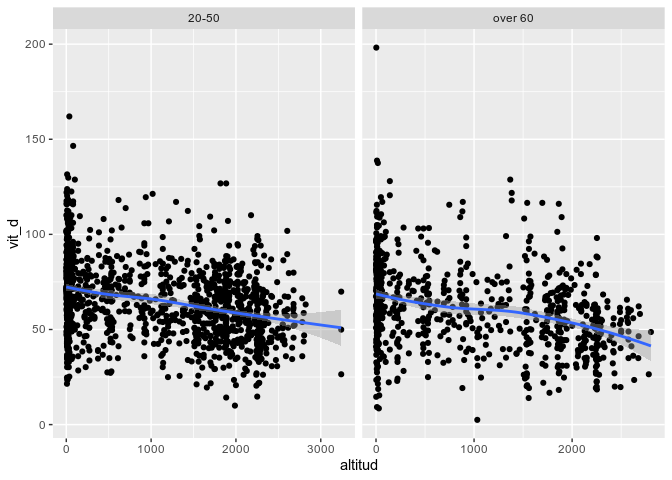
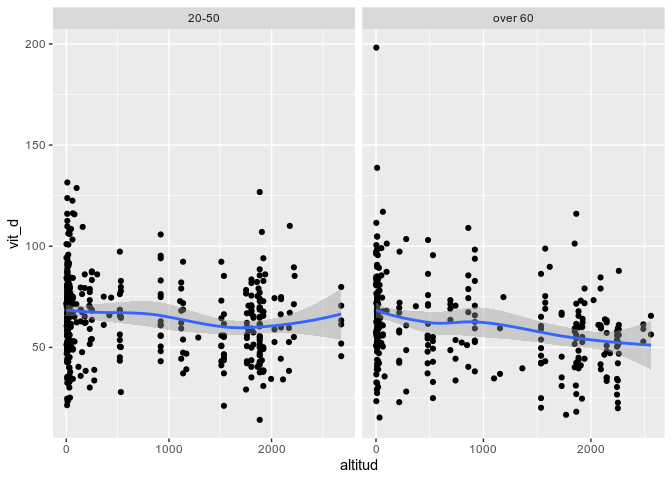
Filtered out mun with small n

diff --git a/02_1_vitd_analysis.md b/02_1_vitd_analysis.md
@@ -1,7 +1,15 @@
 Vitamin D Analysis
 ================
 Carlos Dobler
-February 22, 2021
+Last update: February 23 2021 (18:43)
+
+Pre-processesing
+================
+
+-   Filter out 1 obs from 20-50 y-o database with impossibly high Vit D values
+-   Filter out 8 obs from +60 y-o database with sexo == 1
+-   Filter out 1 obs from +60 y-o database with age &lt; 60
+-   Filter out municipalities with less than 7 observations from 20-50 y-o database and with less than 5 obs from +60 y-o database
 
 Bivariate plots
 ===============
@@ -35,11 +43,11 @@ Note: data used in this section include both tables (20-50 and over 60)
 
 First I assessed what explanatory variables may be intercorrelated (to avoid collinearity).
 
-    ##             edad latitude altitud ethnicity
-    ## edad       1.000    0.035  -0.033     0.060
-    ## latitude   0.035    1.000   0.140     0.625
-    ## altitud   -0.033    0.140   1.000    -0.200
-    ## ethnicity  0.060    0.625  -0.200     1.000
+    ##            edad latitude altitud ethnicity
+    ## edad      1.000    0.138   0.092     0.163
+    ## latitude  0.138    1.000   0.119     0.607
+    ## altitud   0.092    0.119   1.000    -0.161
+    ## ethnicity 0.163    0.607  -0.161     1.000
 
 As expected, ethnicity and latitude are highly correlated, so I only use one of them in the multivariate regressions.
 
@@ -51,19 +59,19 @@ As expected, ethnicity and latitude are highly correlated, so I only use one of 
     ## 
     ## Residuals:
     ##     Min      1Q  Median      3Q     Max 
-    ## -59.148 -12.629  -1.028  11.188 129.095 
+    ## -49.271 -12.856  -0.982  11.151 128.768 
     ## 
     ## Coefficients:
     ##               Estimate Std. Error t value Pr(>|t|)    
-    ## (Intercept) 74.9022876  1.5945853  46.973  < 2e-16 ***
-    ## edad        -0.1637514  0.0215382  -7.603 4.28e-14 ***
-    ## latitude     1.0023634  0.2927225   3.424 0.000628 ***
-    ## altitud     -0.0073250  0.0004585 -15.977  < 2e-16 ***
+    ## (Intercept) 65.7702448  2.6275946  25.031  < 2e-16 ***
+    ## edad        -0.0936935  0.0382722  -2.448 0.014604 *  
+    ## latitude     1.9684741  0.5273409   3.733 0.000205 ***
+    ## altitud     -0.0057123  0.0008675  -6.585  8.9e-11 ***
     ## ---
     ## Signif. codes:  0 '***' 0.001 '**' 0.01 '*' 0.05 '.' 0.1 ' ' 1
     ## 
-    ## Residual standard error: 19.35 on 2178 degrees of freedom
-    ## Multiple R-squared:  0.1225, Adjusted R-squared:  0.1213 
-    ## F-statistic: 101.4 on 3 and 2178 DF,  p-value: < 2.2e-16
+    ## Residual standard error: 19.68 on 707 degrees of freedom
+    ## Multiple R-squared:  0.07659,    Adjusted R-squared:  0.07267 
+    ## F-statistic: 19.55 on 3 and 707 DF,  p-value: 3.495e-12
 
-The model shows a significant but very little capacity to predict Vit D levels using age, altitude, and latitude (these variables explain ~0.014 % of the variance in Vit D). However, the effect of all variables is significant. When controlling for the rest of the variables, edad and altitud have a negative relation with Vit D levels, while latitude has a positive relation with Vit D levels.
+The model shows a significant but very little capacity to predict Vit D levels using age, altitude, and latitude (these variables explain ~0.005% of the variance in Vit D). However, the effect of all variables is significant. When controlling for the rest of the variables, edad and altitud have a negative relation with Vit D levels, while latitude has a positive relation with Vit D levels.
